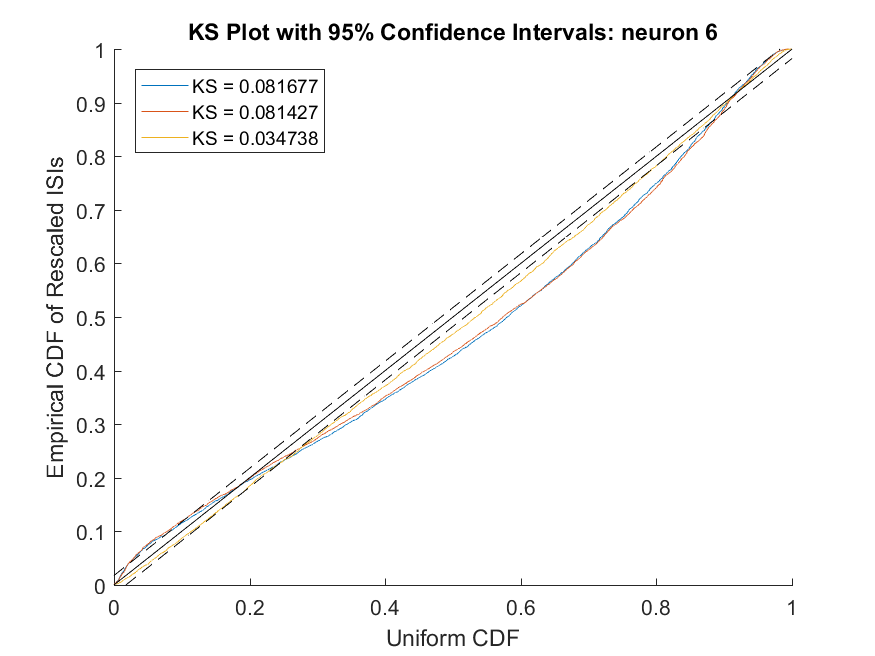
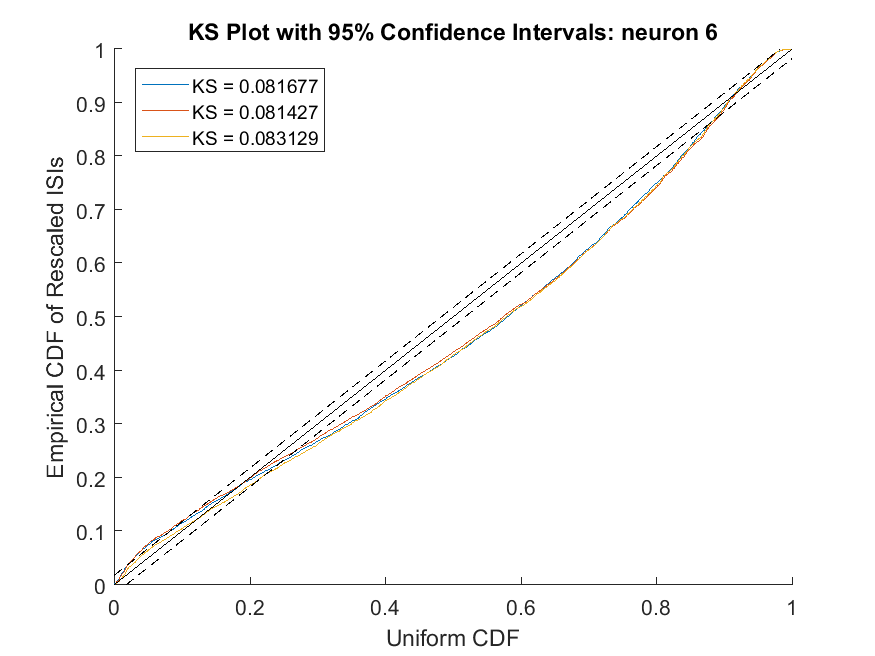
ran a few more history dependence tests -- seems to be a bug somewhere
Former-commit-id: de59d5c95e4e7b62639a83cee2bb80faf5a459eb

Changed region(s): [[0.1234, 0.1524, 0.8331, 0.9146], [0.2777, 0.1829, 0.3703, 0.2439], [0.8331, 0.061, 0.8949, 0.1524]]

diff --git a/encoding.m b/encoding.m
@@ -55,7 +55,7 @@ clear spikess
 clear lambdaEst
 
 h = waitbar(0,'Please wait...');
-for i=1:size(spikes_binned,2)  % iterate through all the neurons
+for i=[3,5,6,7,8,9,10]  % iterate through all the neurons
     
     disp(['Working on neuron ' num2str(i) ' ...'])
     spikes = spikes_binned(:,i);
@@ -87,7 +87,7 @@ for i=1:size(spikes_binned,2)  % iterate through all the neurons
 %     spikess{4} = spikes_ds;    
     
     % Model 3: linear + quadratic + integrate + history dependence
-    hist = 1:600;
+    hist = 1:5;
     [spikes_m3,covar_m3] = hist_dep(hist,spikes,xN,yN,xN.^2,yN.^2,xN.*yN);
     [b3,dev3,stats3] = glmfit(covar_m3,spikes_m3,'poisson');
     lambdaEst{3} = gen_lambda(b3,covar_m3);
@@ -125,8 +125,8 @@ for i=1:size(spikes_binned,2)  % iterate through all the neurons
     xticks(1:length(b3));
     xlim([0 length(b3)+1]);
     xlabel('\beta number'); ylabel('\beta value');
-    saveas(gcf, ['betas-neuron_' num2str(i) '.png'])
-    save(['glm_out-neuron_' num2str(i) '.mat'],'b3','dev3','stats3')
+    saveas(gcf, ['30nov-betas-neuron_' num2str(i) '.png'])
+    save(['30nov-glm_out-neuron_' num2str(i) '.mat'],'b3','dev3','stats3')
     
     % plot KS plots for all three models
     plot_ks(spikess,lambdaEst);
